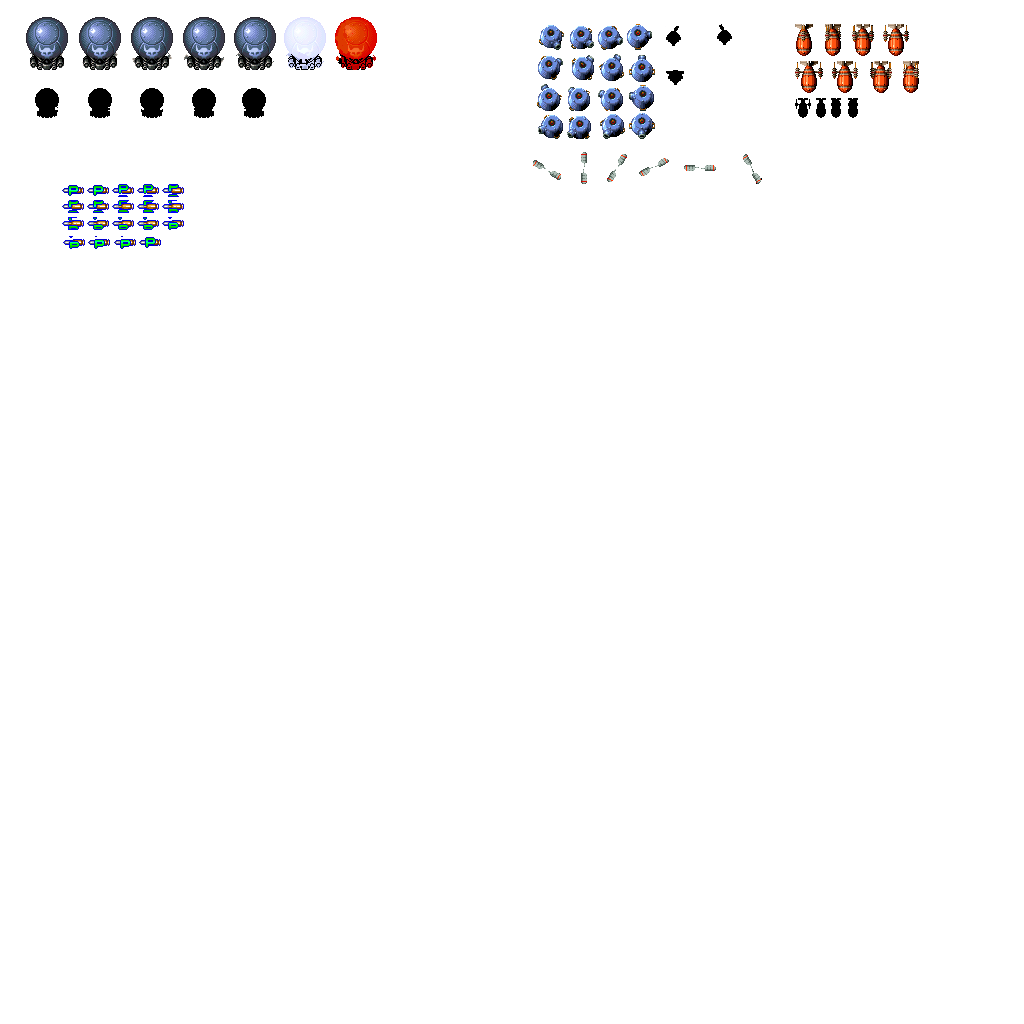
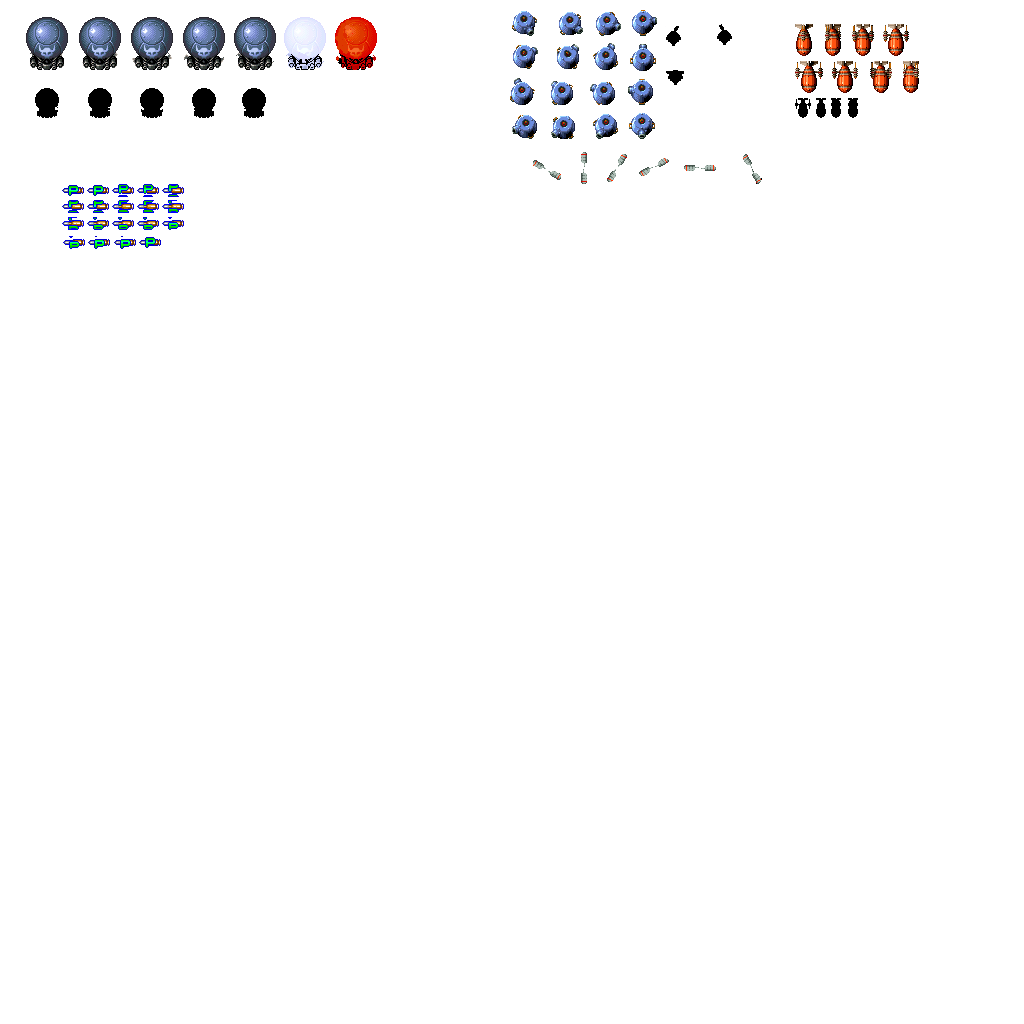
0.4.7.11
Fixed the bug of the flying machine that only appeared half of te sprite

Changed region(s): [[0.5, 0.0, 0.6562, 0.1562]]

diff --git a/Gunbird 0.4.7 (PowerUp)/Gunbird/Enemy_FlyingMachine.cpp b/Gunbird 0.4.7 (PowerUp)/Gunbird/Enemy_FlyingMachine.cpp
@@ -6,22 +6,19 @@
 
 Enemy_FlyingMachine::Enemy_FlyingMachine(int x, int y) : Enemy(x, y)
 {
-	enemy_position.PushBack({ 629,113,26,26 });
 	enemy_position.speed = 0.2f;
 	animation = &enemy_position;
 
-
-
-
+	
+	fly.PushBack({ 531,154,32,32 });
 	fly.PushBack({ 568,152,32,32 });
 	fly.PushBack({ 601,152,32,32 });
 	fly.PushBack({ 638,151,32,32 });
 	fly.PushBack({ 684,152,32,32 });
-	fly.PushBack({ 531,154,32,32 });
 	fly.PushBack({ 737,153,32,32 });
 
 	fly.speed = 0.2f;
-	animation = &fly;
+	animation2 = &fly;
 
 
 

diff --git a/Gunbird 0.4.7 (PowerUp)/Gunbird/Enemy.cpp b/Gunbird 0.4.7 (PowerUp)/Gunbird/Enemy.cpp
@@ -24,8 +24,12 @@ void Enemy::Draw(SDL_Texture* sprites)
 	if (collider != nullptr)
 		collider->SetPos(position.x, position.y);
 
-	if (animation != nullptr)
+	if (animation != nullptr) {
 		App->render->Blit(sprites, position.x, position.y, &(animation->GetCurrentFrame()));
+	}
+	if (animation2 != nullptr) {
+		App->render->Blit(sprites, position.x, position.y, &(animation2->GetCurrentFrame()));
+	}
 }
 
 void Enemy::OnCollision(Collider* collider)
